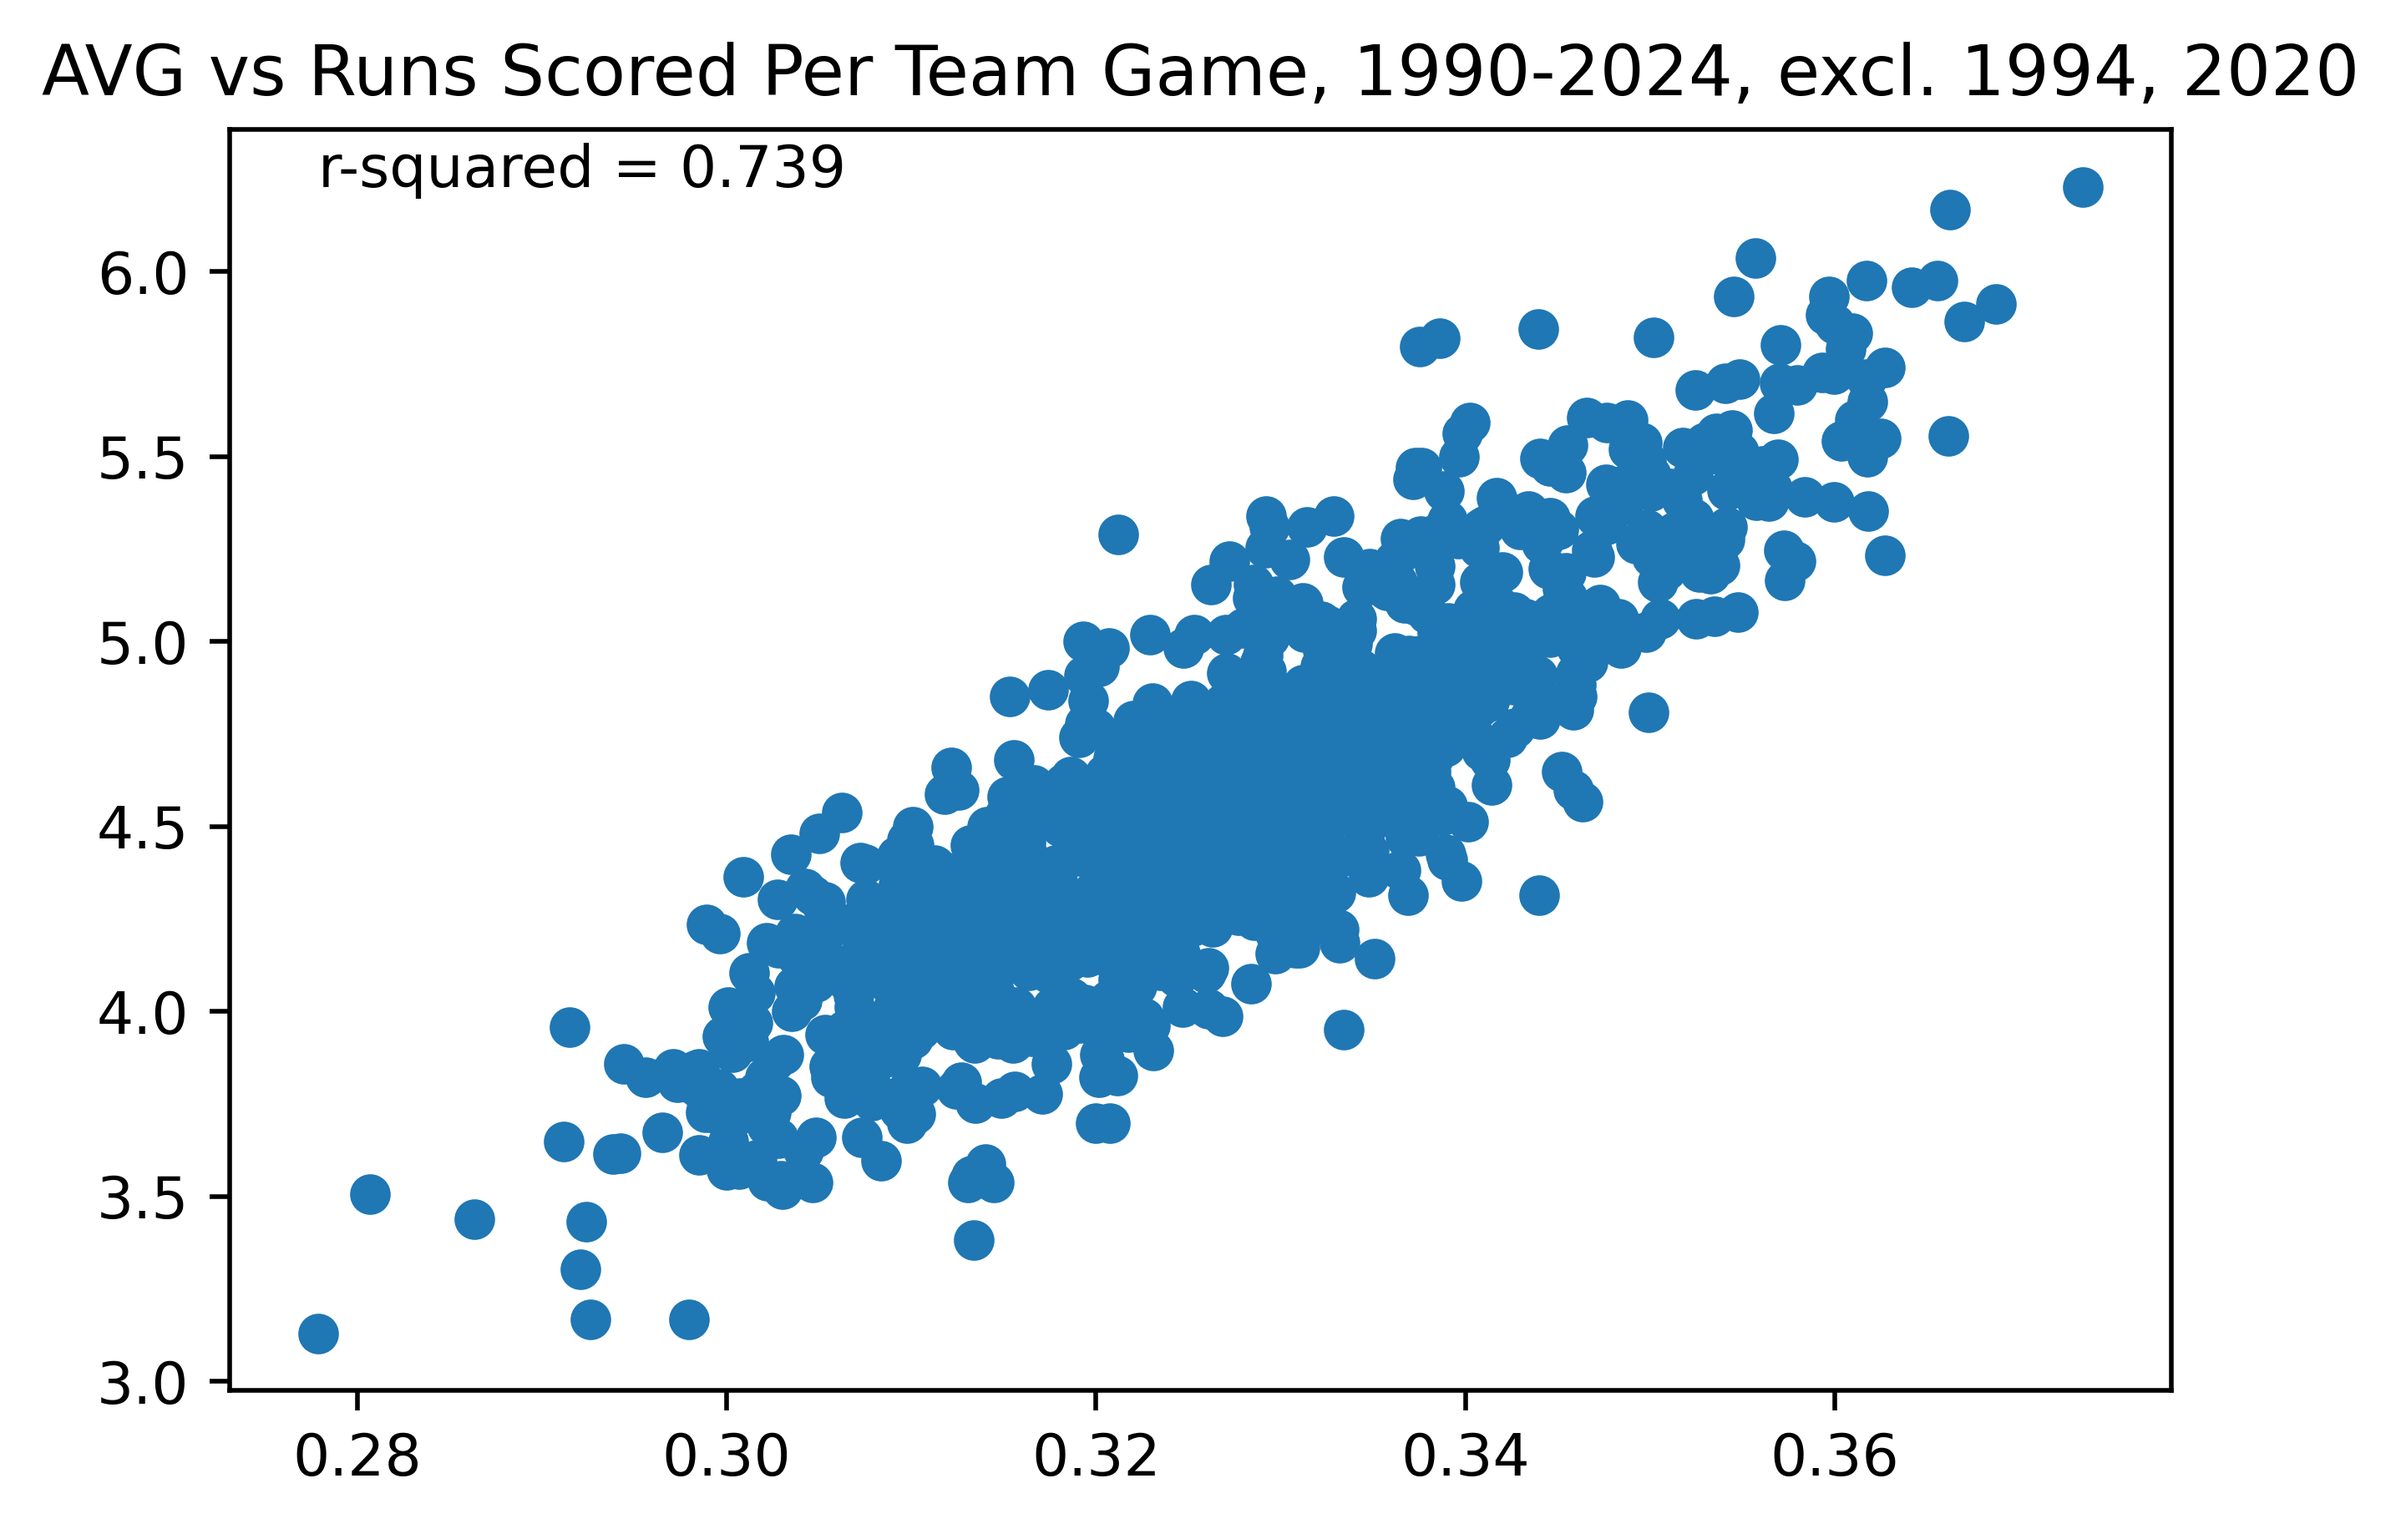
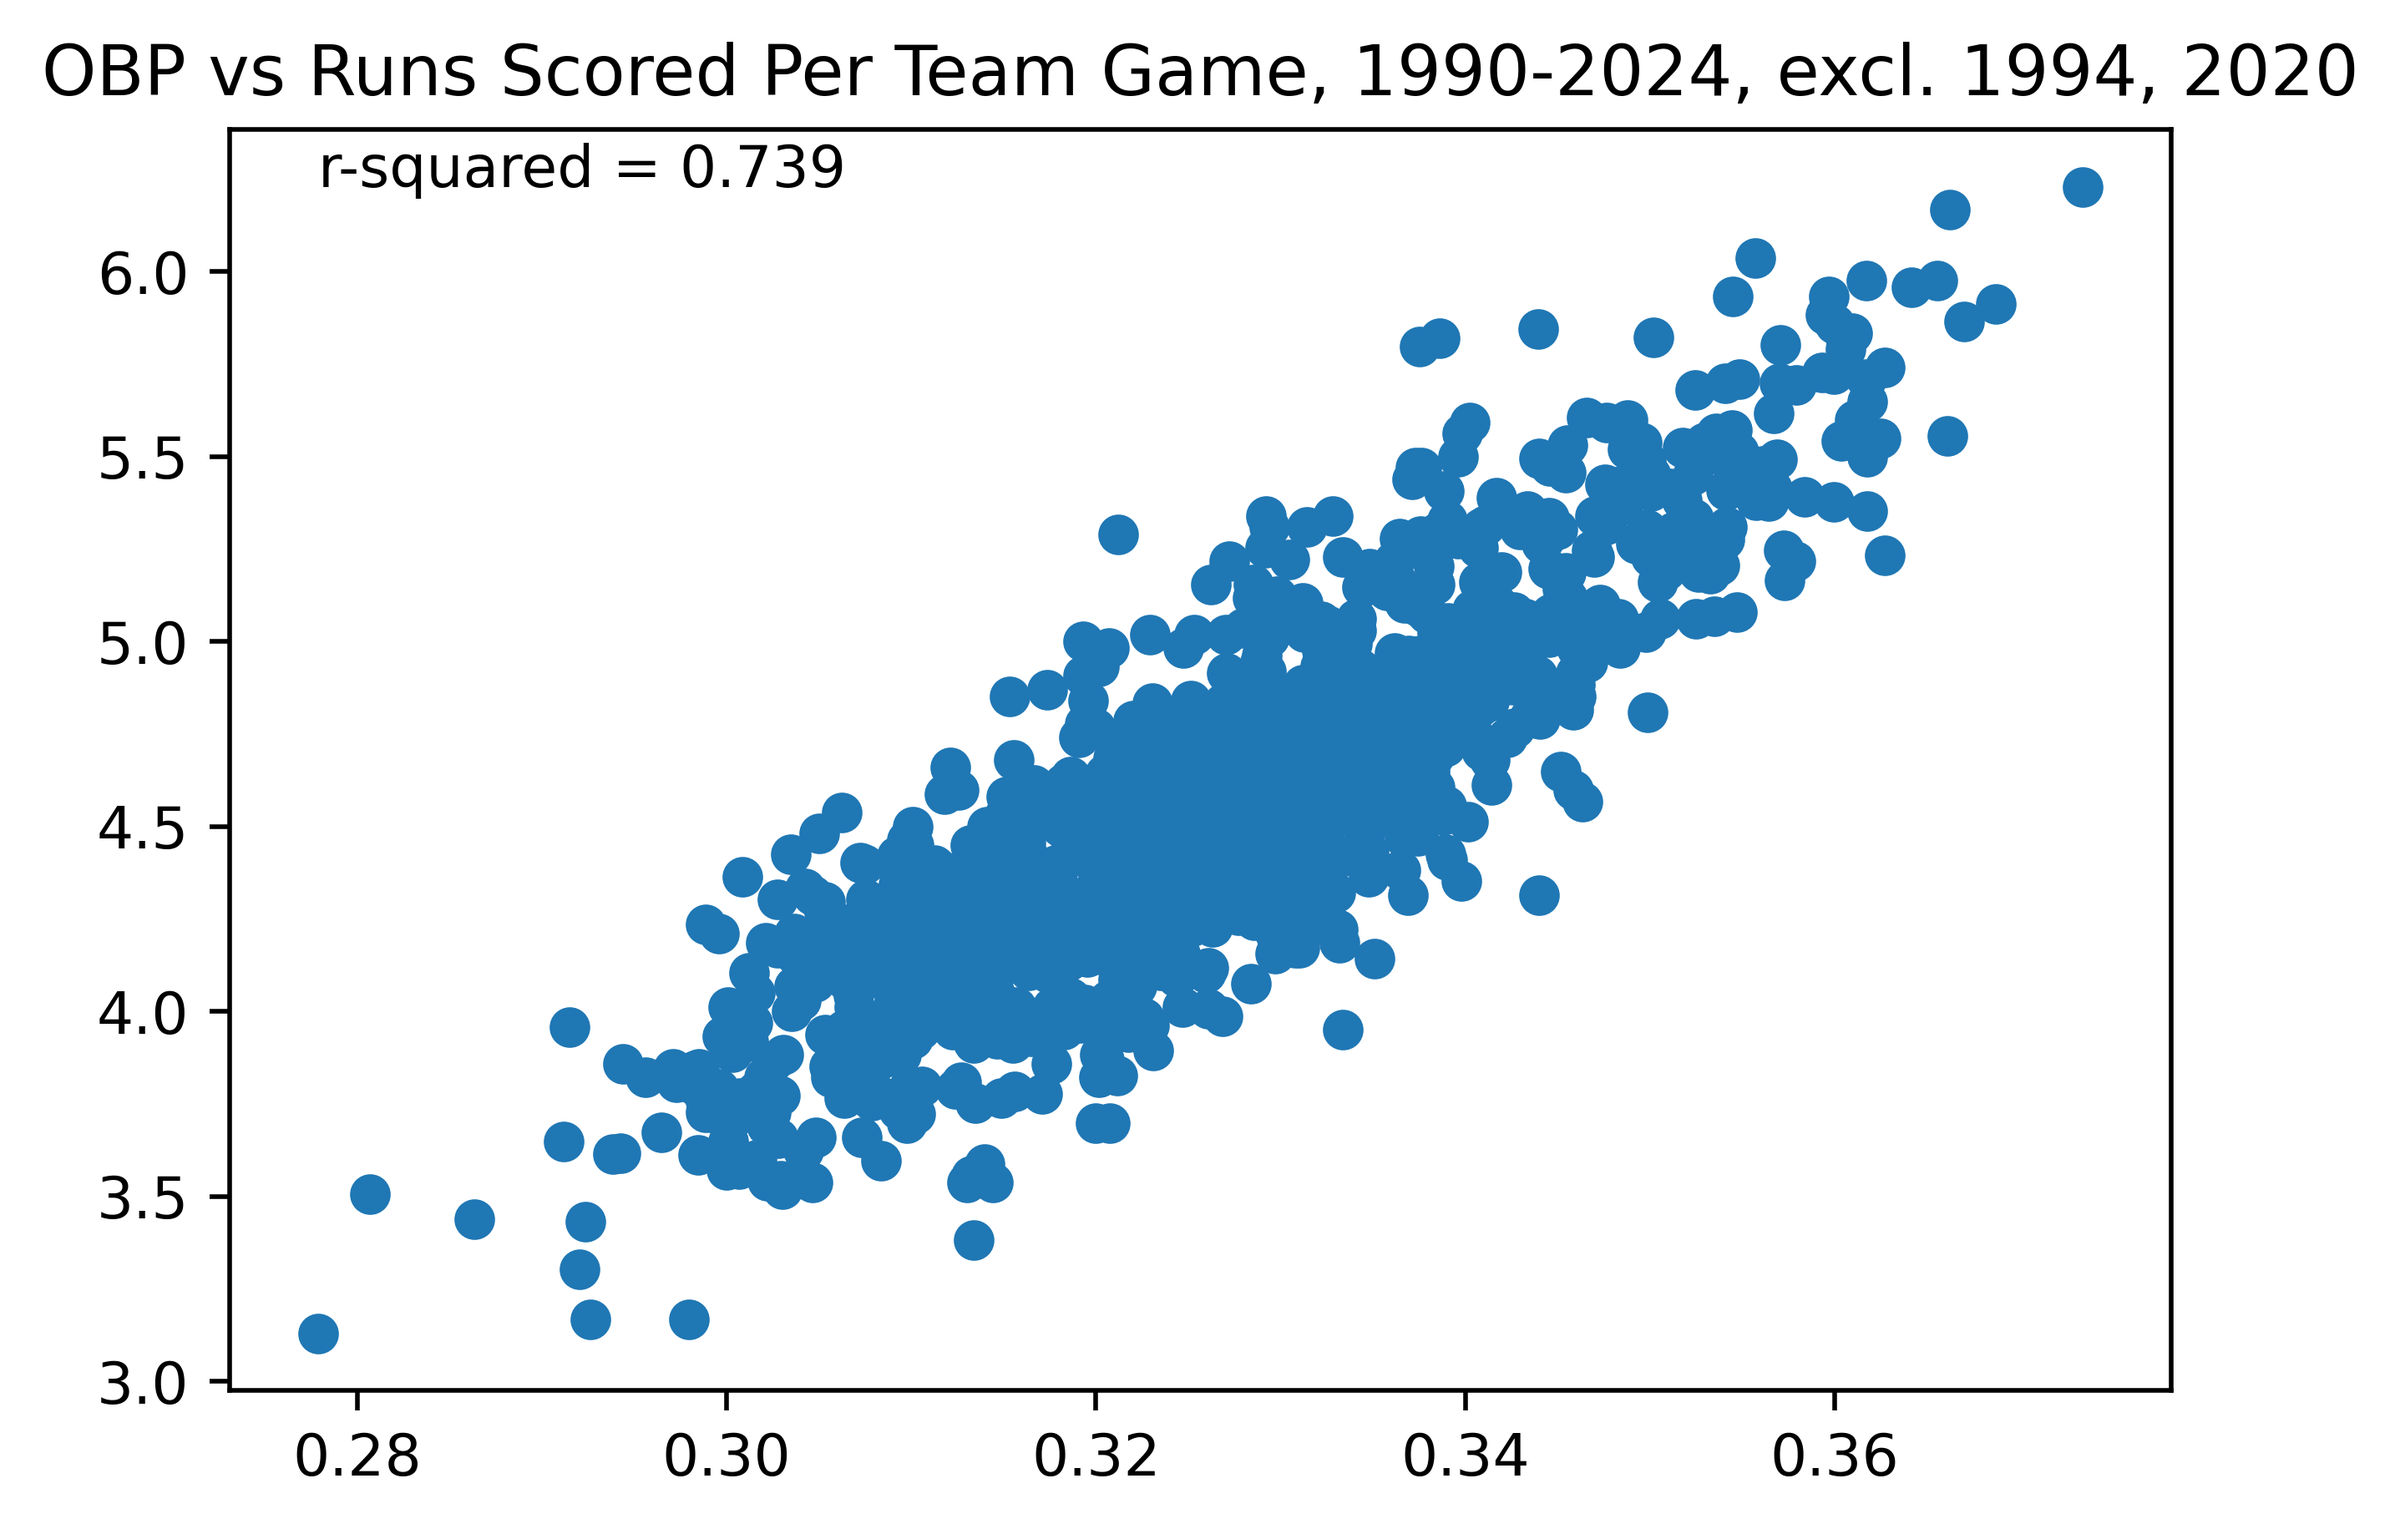
[PUBLISHER] MERGE #28
* PUSH NOTE : 004 wOBA.md

* PUSH ATTACHMENT : ops_predict_runs.png

* PUSH ATTACHMENT : woba_predict_runs.png

* PUSH ATTACHMENT : ops_predict_ops.png

* PUSH ATTACHMENT : wOBA_predict_wOBA.png

* PUSH NOTE : 001 What's so bad about batting average.md

* PUSH ATTACHMENT : obp_vs_runs.png

Changed region(s): [[0.0, 0.0311, 0.0929, 0.0623]]

diff --git a/content/Intro To Sabermetrics/101 Basic Hitting Stats/Weighted On Base Average and Linear Weights (Sabermetrics 101: Basic Hitting Stats — Part 4).md b/content/Intro To Sabermetrics/101 Basic Hitting Stats/Weighted On Base Average and Linear Weights (Sabermetrics 101: Basic Hitting Stats — Part 4).md
@@ -29,6 +29,7 @@ On a side note, if your other question is "what is uBB", the answer is unintenti
 >
 >I am, of course, getting ahead of myself. That last bit especially about leverage index won't make much sense right now, but it will when I explain it later on in 201 Advanced Value Stats.
 
+# Calculating Linear Weights
 Anyways, where does this formula come from? The answer is quite simple: run expectancy. If you've read [[./Run Expectancy (Sabermetrics 101: Basic Hitting Stats — Part 3)|my previous article]] on run expectancy, you'll know how run expectancy is calculated: you count all the runs scored during plays with a certain base-out state and then after it in the inning, then you take the average of that count, and that's the number of runs you'd expect to score from a base-out state. As it turns out, you can use this to calculate the value of a hitter. Of course, we don't want to give the hitter credit for the base-out state they come to bat in—is it fair that a hitter who hits a grand slam gets more credit for their hit than one which hits a solo home run?—so we need to find a way to remove context from this situation.
 
 This is a challenge which perplexed me when I was first learning about wOBA years ago. After a single, there are so many possible base-out states, how can you possibly account for them all? As it turns out, the answer is equally as simple as calculating run expectancy. What you do to calculate the value of a single is you calculate the $\Delta\text{RE}$ (change in run expectancy from before the play to after the play, or the value of the play in run expectancy) for every single which has occurred in your set of plays. Then, you divide it by the number of singles, to get the average expected value of a single above average. You can then repeat this for all plays you need values for (uBB, HBP, 1B, 2B, 3B, HR, any out).
@@ -44,15 +45,37 @@ This moves us on to the second to last step in calculating those fancy numbers i
 Finally, you calculate the league average wOBA. This is simply done by calculating the wOBA of the whole league in the sample of plays you're calculating the linear weights for. You take every single unintentional walk in baseball and multiply it by the constant you have, then every single HBP, and so on, until you get a number. This number will be too small (for 2025, you should get something in the ballpark of .250—I'm not calculating this but making an educated guesstimate). So, you divide $\dfrac{\text{lgOBP}}{\text{League Unadjusted wOBA}}$ to get a value called [[Weighted On Base Average and Linear Weights (Sabermetrics 101: Basic Hitting Stats — Part 4)|wOBA scale]]. Finally, the formula is achieved. When you multiply each weight in the wOBA formula by that wOBA scale, the wOBA scale has now been normalized so the league average wOBA is equal to the league average OBP.
 
 What I have described is the calculation of [[Weighted On Base Average and Linear Weights (Sabermetrics 101: Basic Hitting Stats — Part 4)|linear weights]]. These quantify the impact of certain events on the run expectancy of a team, which can be used in many versatile ways. You can use them to isolate the individual offensive output of a player. You can use them to see whether a team may or may not be getting a bit lucky with the sequencing of their hits—if their cumulative team wOBA suggests they should be scoring fewer runs than they are, then maybe they're slightly lucky. Linear weights are the foundation of modern baseball Sabermetric hitting stats.
+# Analyzing Linear Weights
+
+Using linear weights, we can figure out that [[./What's so bad about batting average? (Sabermetrics 101: Basic Hitting Stats — Part 1)|OBP]] is actually more important than [[./On-Base Plus Slugging (Sabermetrics 101: Basic Hitting Stats — Part 2)|OPS]] in modeling run scoring. Tom Tango does [a more in-depth analysis](http://tangotiger.com/index.php/site/comments/weighting-of-obp-relative-to-slg) using Markov Chains (where he finds that OBP is 1.9x as valuable as SLG) but, very basically, we can see that the value gained from getting a single is more than half the value earned from getting a double—there are diminishing returns beyond a single. SLG does not reflect these diminishing returns, giving a player double the value for a double, three times for a triple, etc when, in reality, the value of the first base reached is far more than the value of any other base. Hence, OBP is a more important stat for describing run-scoring, which is something we can see from these linear weights, making it a more "valuable" skill per point of OBP. 
 
 So, to calculate wOBA, you multiply the number of outcomes of a certain type by its corresponding weight (and you can include more outcomes if you want! The formula I provided is merely the one which Fangraphs uses, you could add the number of times a batter reaches on error, or even wild pitches during their at bats if you were so daring—I wouldn't agree with that latter decision on wild pitches, but you could do it if you wanted) and then divide it by the number of PAs minus the number of IBBs (to avoid penalizing the hitter for intentional walks).
-
-Oh! Before I forget, here are our important charts for wOBA.
+# wOBA Analysis and Comparison to OPS
 
 ![[../../00 internal files/Assets/woba_vs_runs.png|woba_vs_runs.png]]
 **Figure 1. Team wOBA vs Runs Scored, 1990-2024, excl. 1994, 2020**
 
 Before I show the second important chart (the percentiles table), I have to add a note here. Figure 1 shows wOBA has an r<sup>2</sup> that is *lower* than that of OPS when compared to team runs per game. Why is this? It's because wOBA isn't strictly designed to be a team stat. Its goal is not to approximate team runs scored—what's the point of that, we have individual runs. Its goal is to approximate the impact of an *individual player* on their team. Which is why it excludes things like sacrifice flies and intentional walks—players simply don't have much control over that. But they're still things that happen (and which teams as a monolithic unit along with their manager have control over, but not the individual players), so naturally wOBA will be very slightly less predictive against team runs scored (and keep in mind how slight this is, it's still miles better than OBP or AVG).
+
+Additionally, where wOBA overtakes OPS is in terms of being **predictive**. What does it mean to be a predictive? It means whether a stat can be used to predict future outcomes. If I know the 2025 wOBA of a team through the first month, can I predict their outcomes for the rest of the year? Let's compare wOBA and OPS in this regard by comparing a team's wOBA in one year to their runs scored per team game in the next year.
+
+![[../../00 internal files/Assets/ops_predict_runs.png|ops_predict_runs.png]]
+**Figure 2. Predictiveness of Team OPS vs Runs Scored, 1990-2024, excl. 1994, 2020**
+
+![[../../00 internal files/Assets/woba_predict_runs.png|woba_predict_runs.png]]
+**Figure 3. Predictiveness of Team wOBA vs Runs Scored, 1990-2024, excl. 1994, 2020**
+
+From Figures 2 and 3, you can see that wOBA is *very slightly* more predictive of future offensive output than OPS. Keep in mind that this is very slight—the difference is not necessarily significant. But what this definitively tells us is that wOBA's primary strength is in measuring something called "True Talent". If we assume that a baseball player has a talent—let's say they're a .300 hitter—that doesn't mean they'll play to this talent every year or every game. We'll get to some of the actual causes in 301 Statcast section of this series, but a player may get lucky or unlucky. Two of the main ways this happens is through batted ball luck (hitting the ball well but it gets caught, or hitting it poorly but it's a hit) or sequencing luck (if you just so happen to get more positive rolls of the dice with runners on base). This sequencing is part of why stats like runs scored aren't predictive. When we are talking about prediction, we are actually trying to measure the True Talent of a player or team (until we get into quite advanced projection systems, it's not possible to predict how True Talent will change year-over-year). And wOBA disregards some outcomes which are viewed as not reflecting True Talent (such as intentional walks and sacrifice flies), which leads to it being disproportionately better at measuring true talent. This can also be seen through its predictiveness of itself.
+
+![[../../00 internal files/Assets/ops_predict_ops.png|ops_predict_ops.png]]
+**Figure 4. Predictiveness of Year 1 Team OPS vs Year 2 Team OPS, 1990-2024, excl. 1994, 2020**
+
+![[../../00 internal files/Assets/wOBA_predict_wOBA.png|wOBA_predict_wOBA.png]]
+**Figure 5. Predictiveness of Year 1 Team wOBA vs Year 2 Team wOBA, 1990-2024, excl. 1994, 2020**
+
+Figures 4 and 5 show that wOBA is more predictive of itself than OPS is, implying that wOBA is more correlated with True Talent. If some theoretical stat correlated perfectly with true talent, we would expect that it's year 1 vs year 2 coefficient of determination would be very high—not 1, because talent changes from year-to-year, but very high, up to some theoretical maximum which simply equals how much talent stays the same from year-to-year. So, this means that you can tell if a stat is more reflective of True Talent than another stat by comparing their correlations to their future values.
+
+Next, we can move onto our percentiles table.
 
 | Percentile | wOBA |
 | --- | --- |
